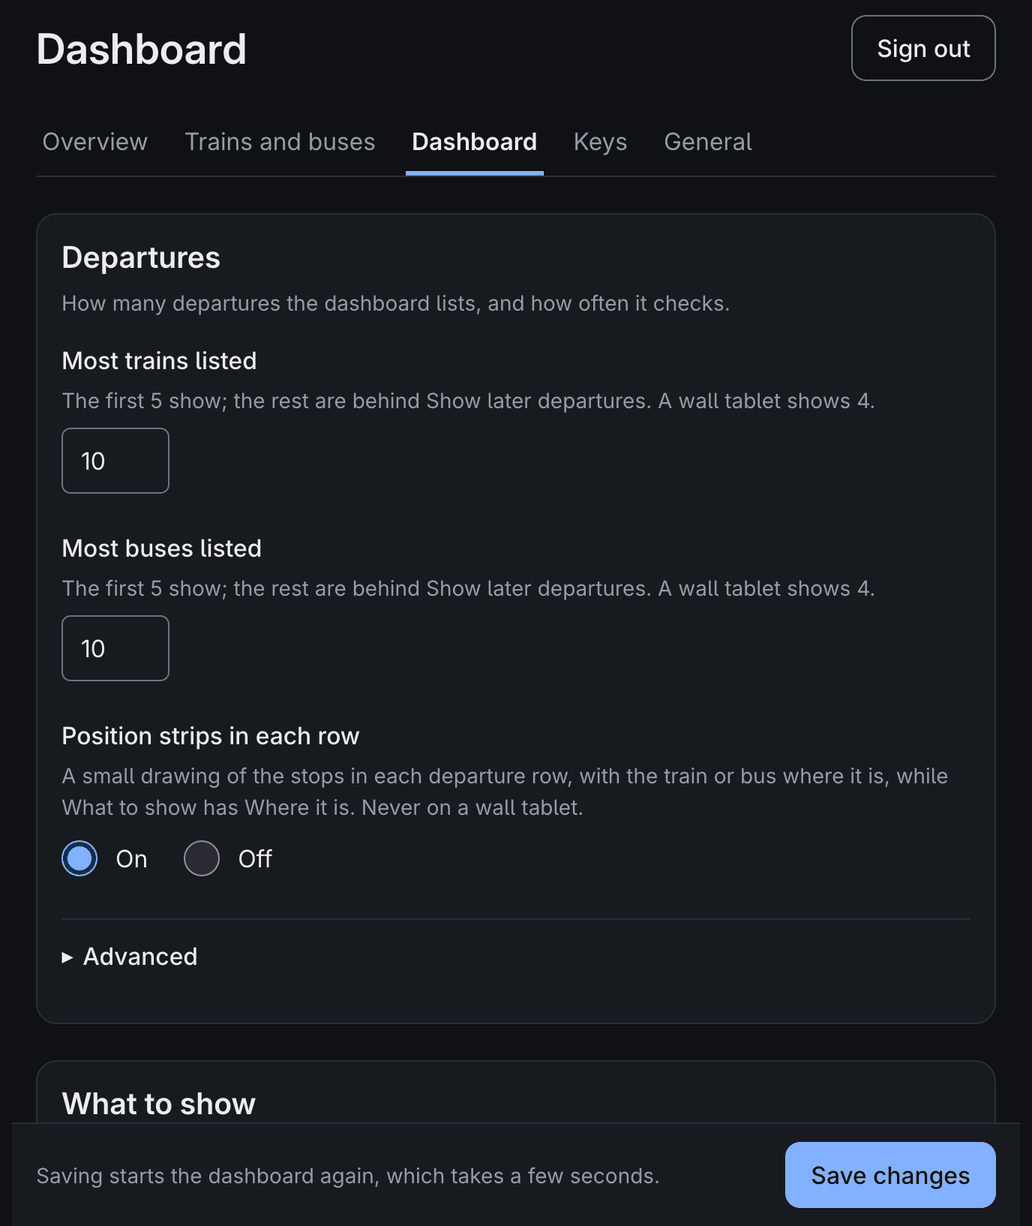
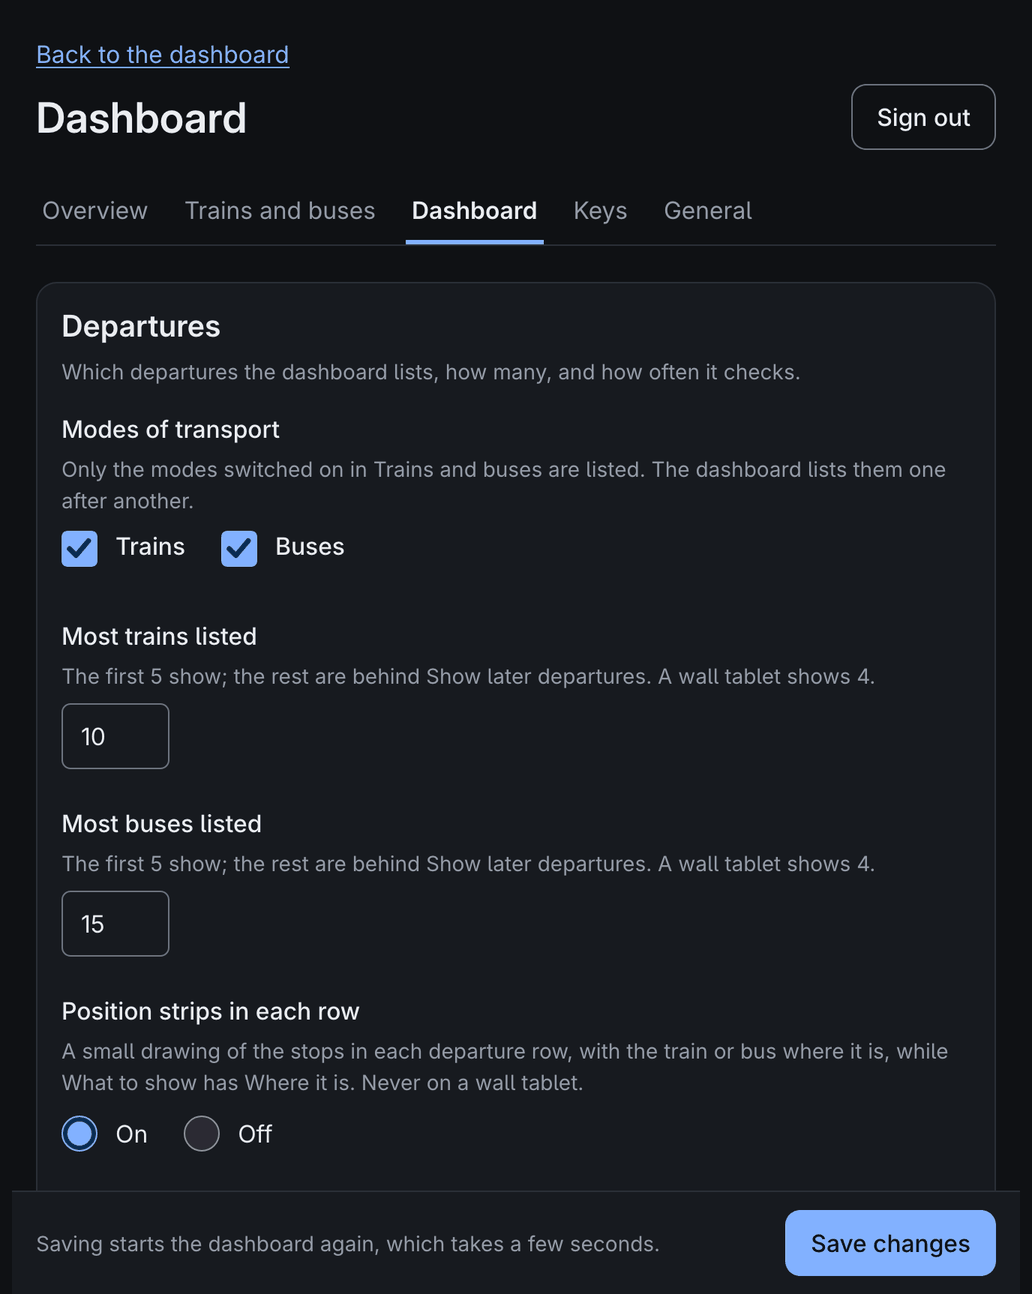
docs(settings): show the Dashboard page with its modes
The picture also had the old default of 10 buses. The modes hint loses
its echo of the section's note, and the wizard's list drops a class its
stylesheet doesn't have.

diff --git a/src/twobells/wizard_static/presets.js b/src/twobells/wizard_static/presets.js
@@ -58,7 +58,7 @@ function modesGroup(view) {
     h("legend", {}, `Modes of transport on ${lower(view.label)}`),
     says ? h("p", { class: "hint", id: `${name}-hint` }, says) : null,
     h("p", { class: "error", id: `${name}-error`, hidden: true }),
-    h("div", { class: "options inline" }, boxes));
+    h("div", { class: "options" }, boxes));
 }
 
 const firstBox = (view) => $(`modes-${view.name}-${pickedModes()[0].name}`);

diff --git a/src/twobells/settings/schema.py b/src/twobells/settings/schema.py
@@ -434,7 +434,7 @@ _TEXT_SIZES = tuple(str(size) for size in range(9, 17))
 _TEXT_SIZE_NAMES = {"9": "smallest", "11": "standard", "16": "biggest"}
 _KEPT = "The settings below are kept for turning them back on."
 _LISTED = "The first 5 show; the rest are behind Show later departures. A wall tablet shows 4."
-_MODES = "Each has a section of its own. Only modes switched on, on the Trains and buses page, are listed."
+_MODES = "Only the modes switched on in Trains and buses are listed."
 _CHECKING = ("Outside these times the board shows what it last knew, without saying “not updating”. Bank holidays "
              "count as Sundays, unless the General page says to ignore them.")
 

diff --git a/README.md b/README.md
@@ -72,7 +72,7 @@ No config files to write. Give the setup wizard your postcode or address: it fin
 
 Everything else is on the settings site, in plain words, behind one password:
 
-<img width="49%" alt="The settings site's Dashboard page: how many trains and buses it lists, and position strips on or off" src="docs/images/settings-dashboard.png">
+<img width="49%" alt="The settings site's Dashboard page: which modes of transport it lists, how many trains and buses, and position strips on or off" src="docs/images/settings-dashboard.png">
 
 ## What it covers
 
